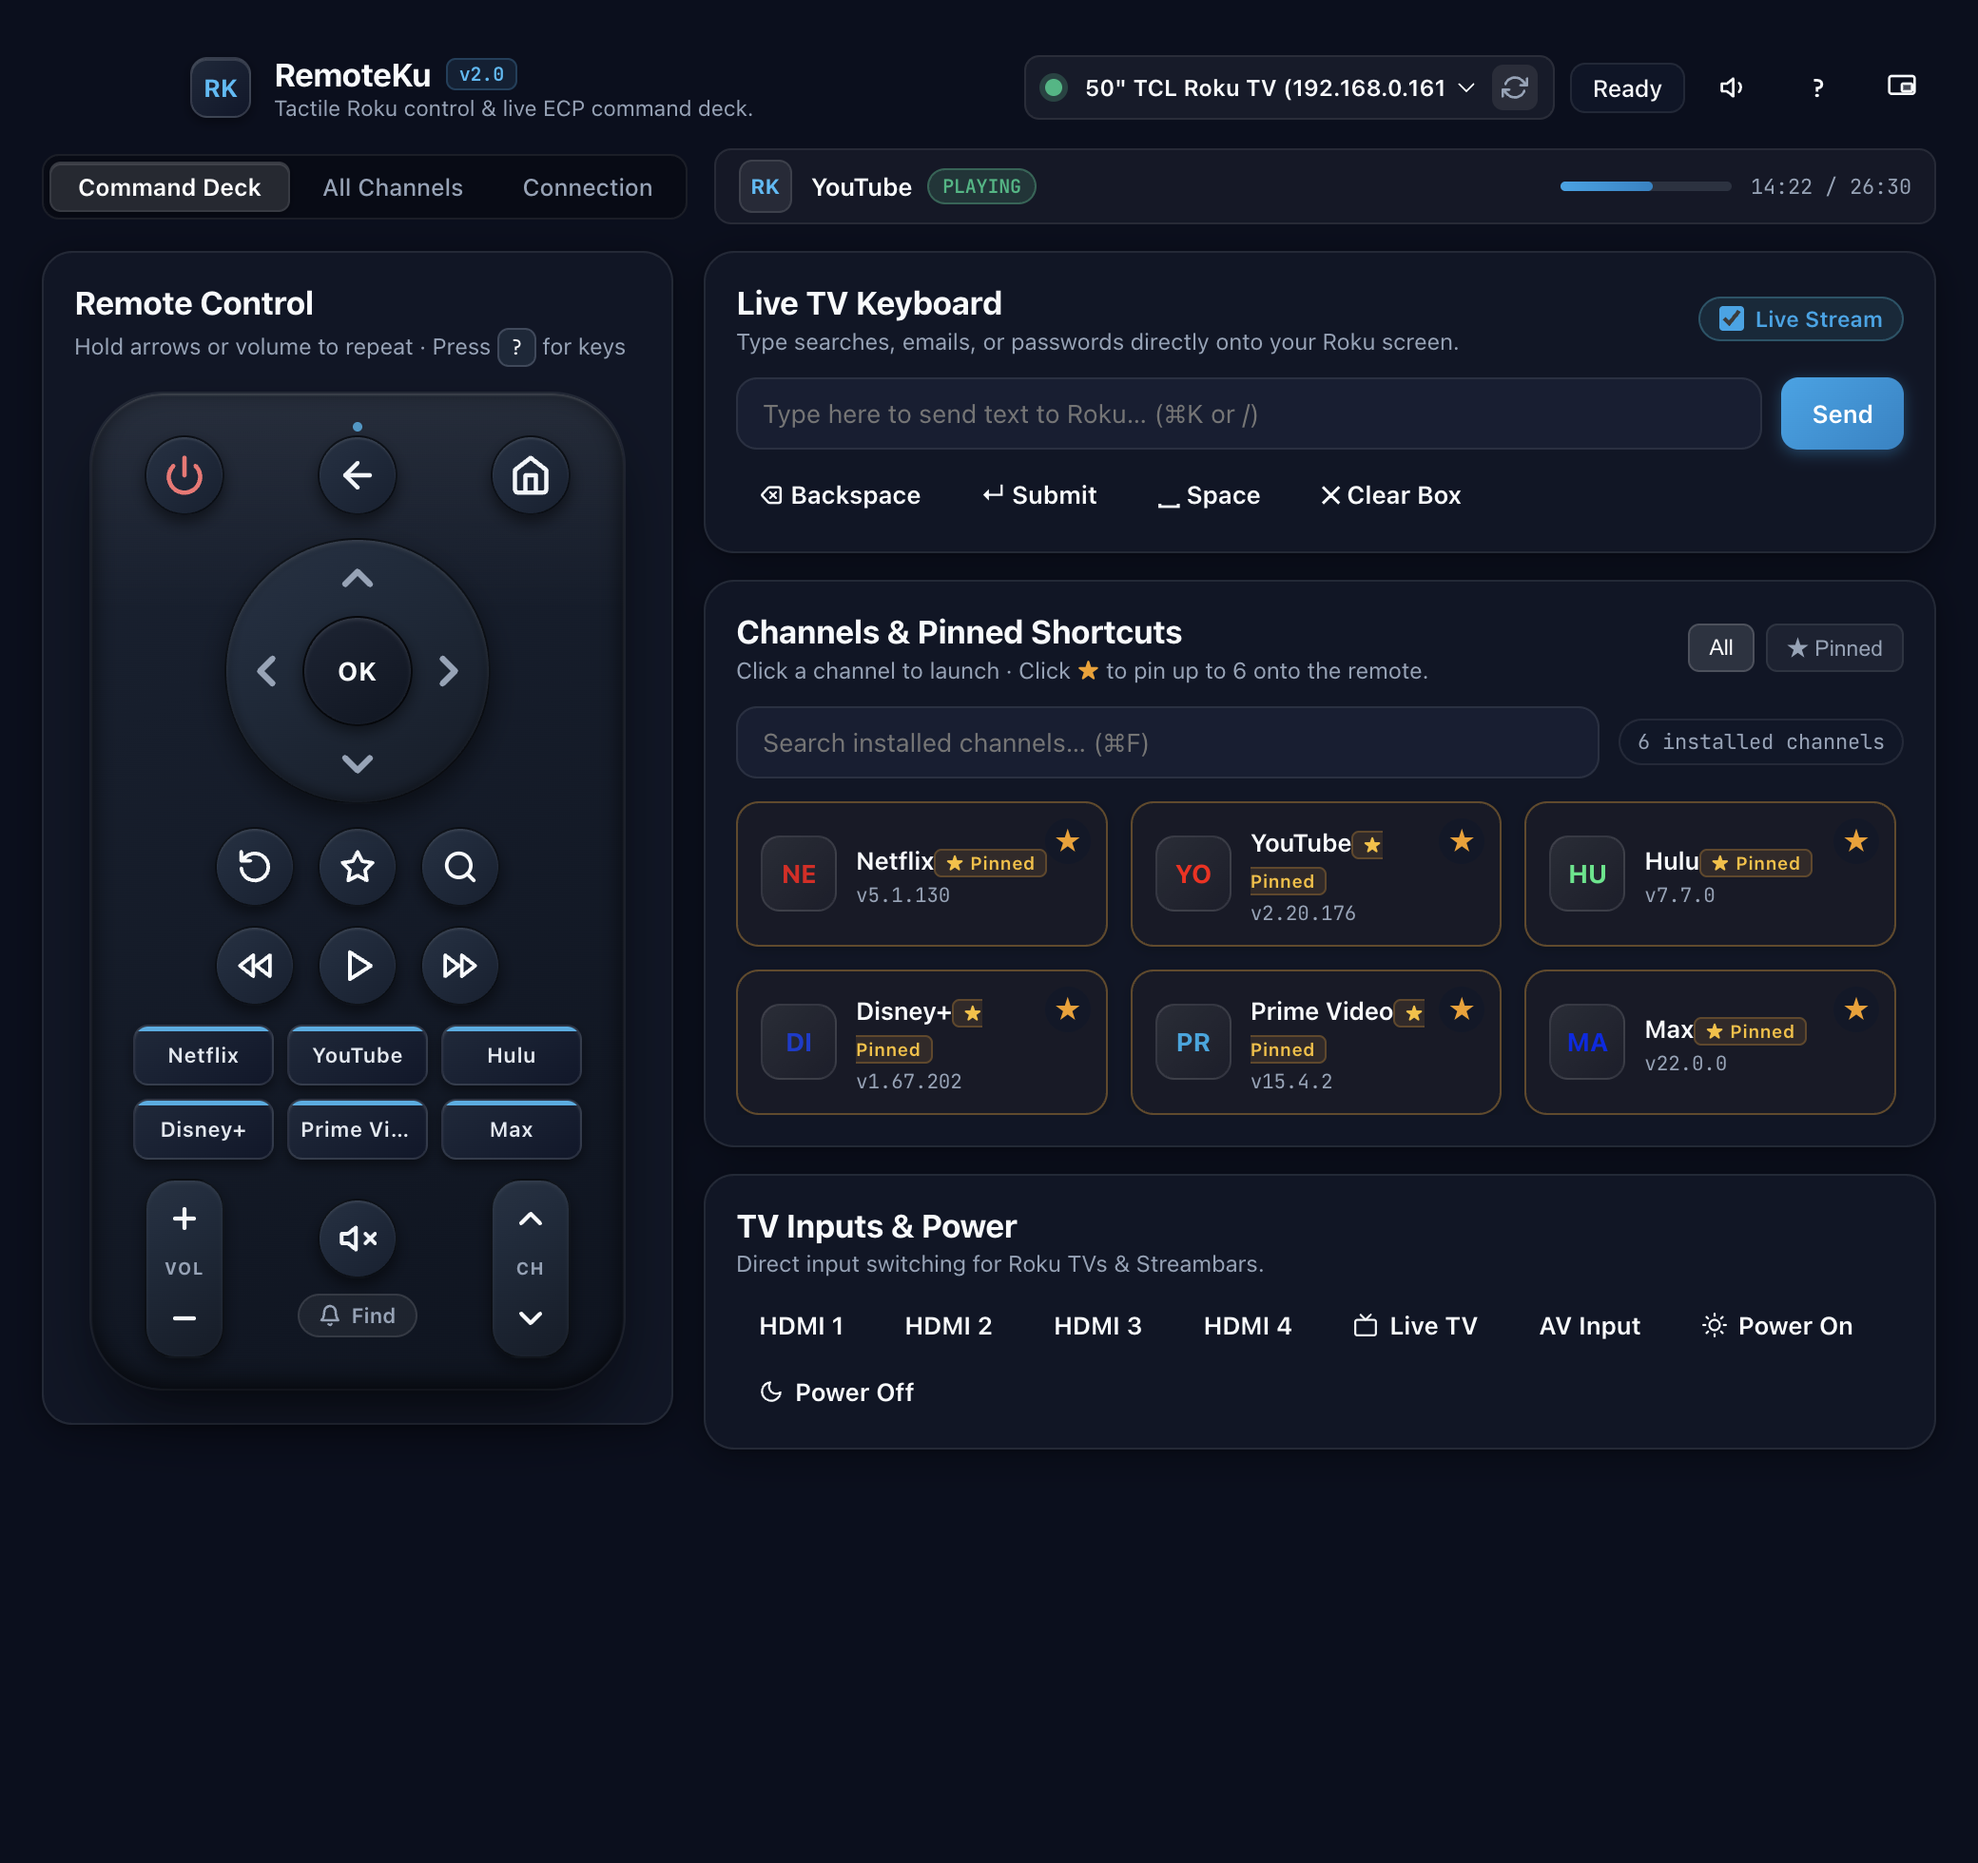
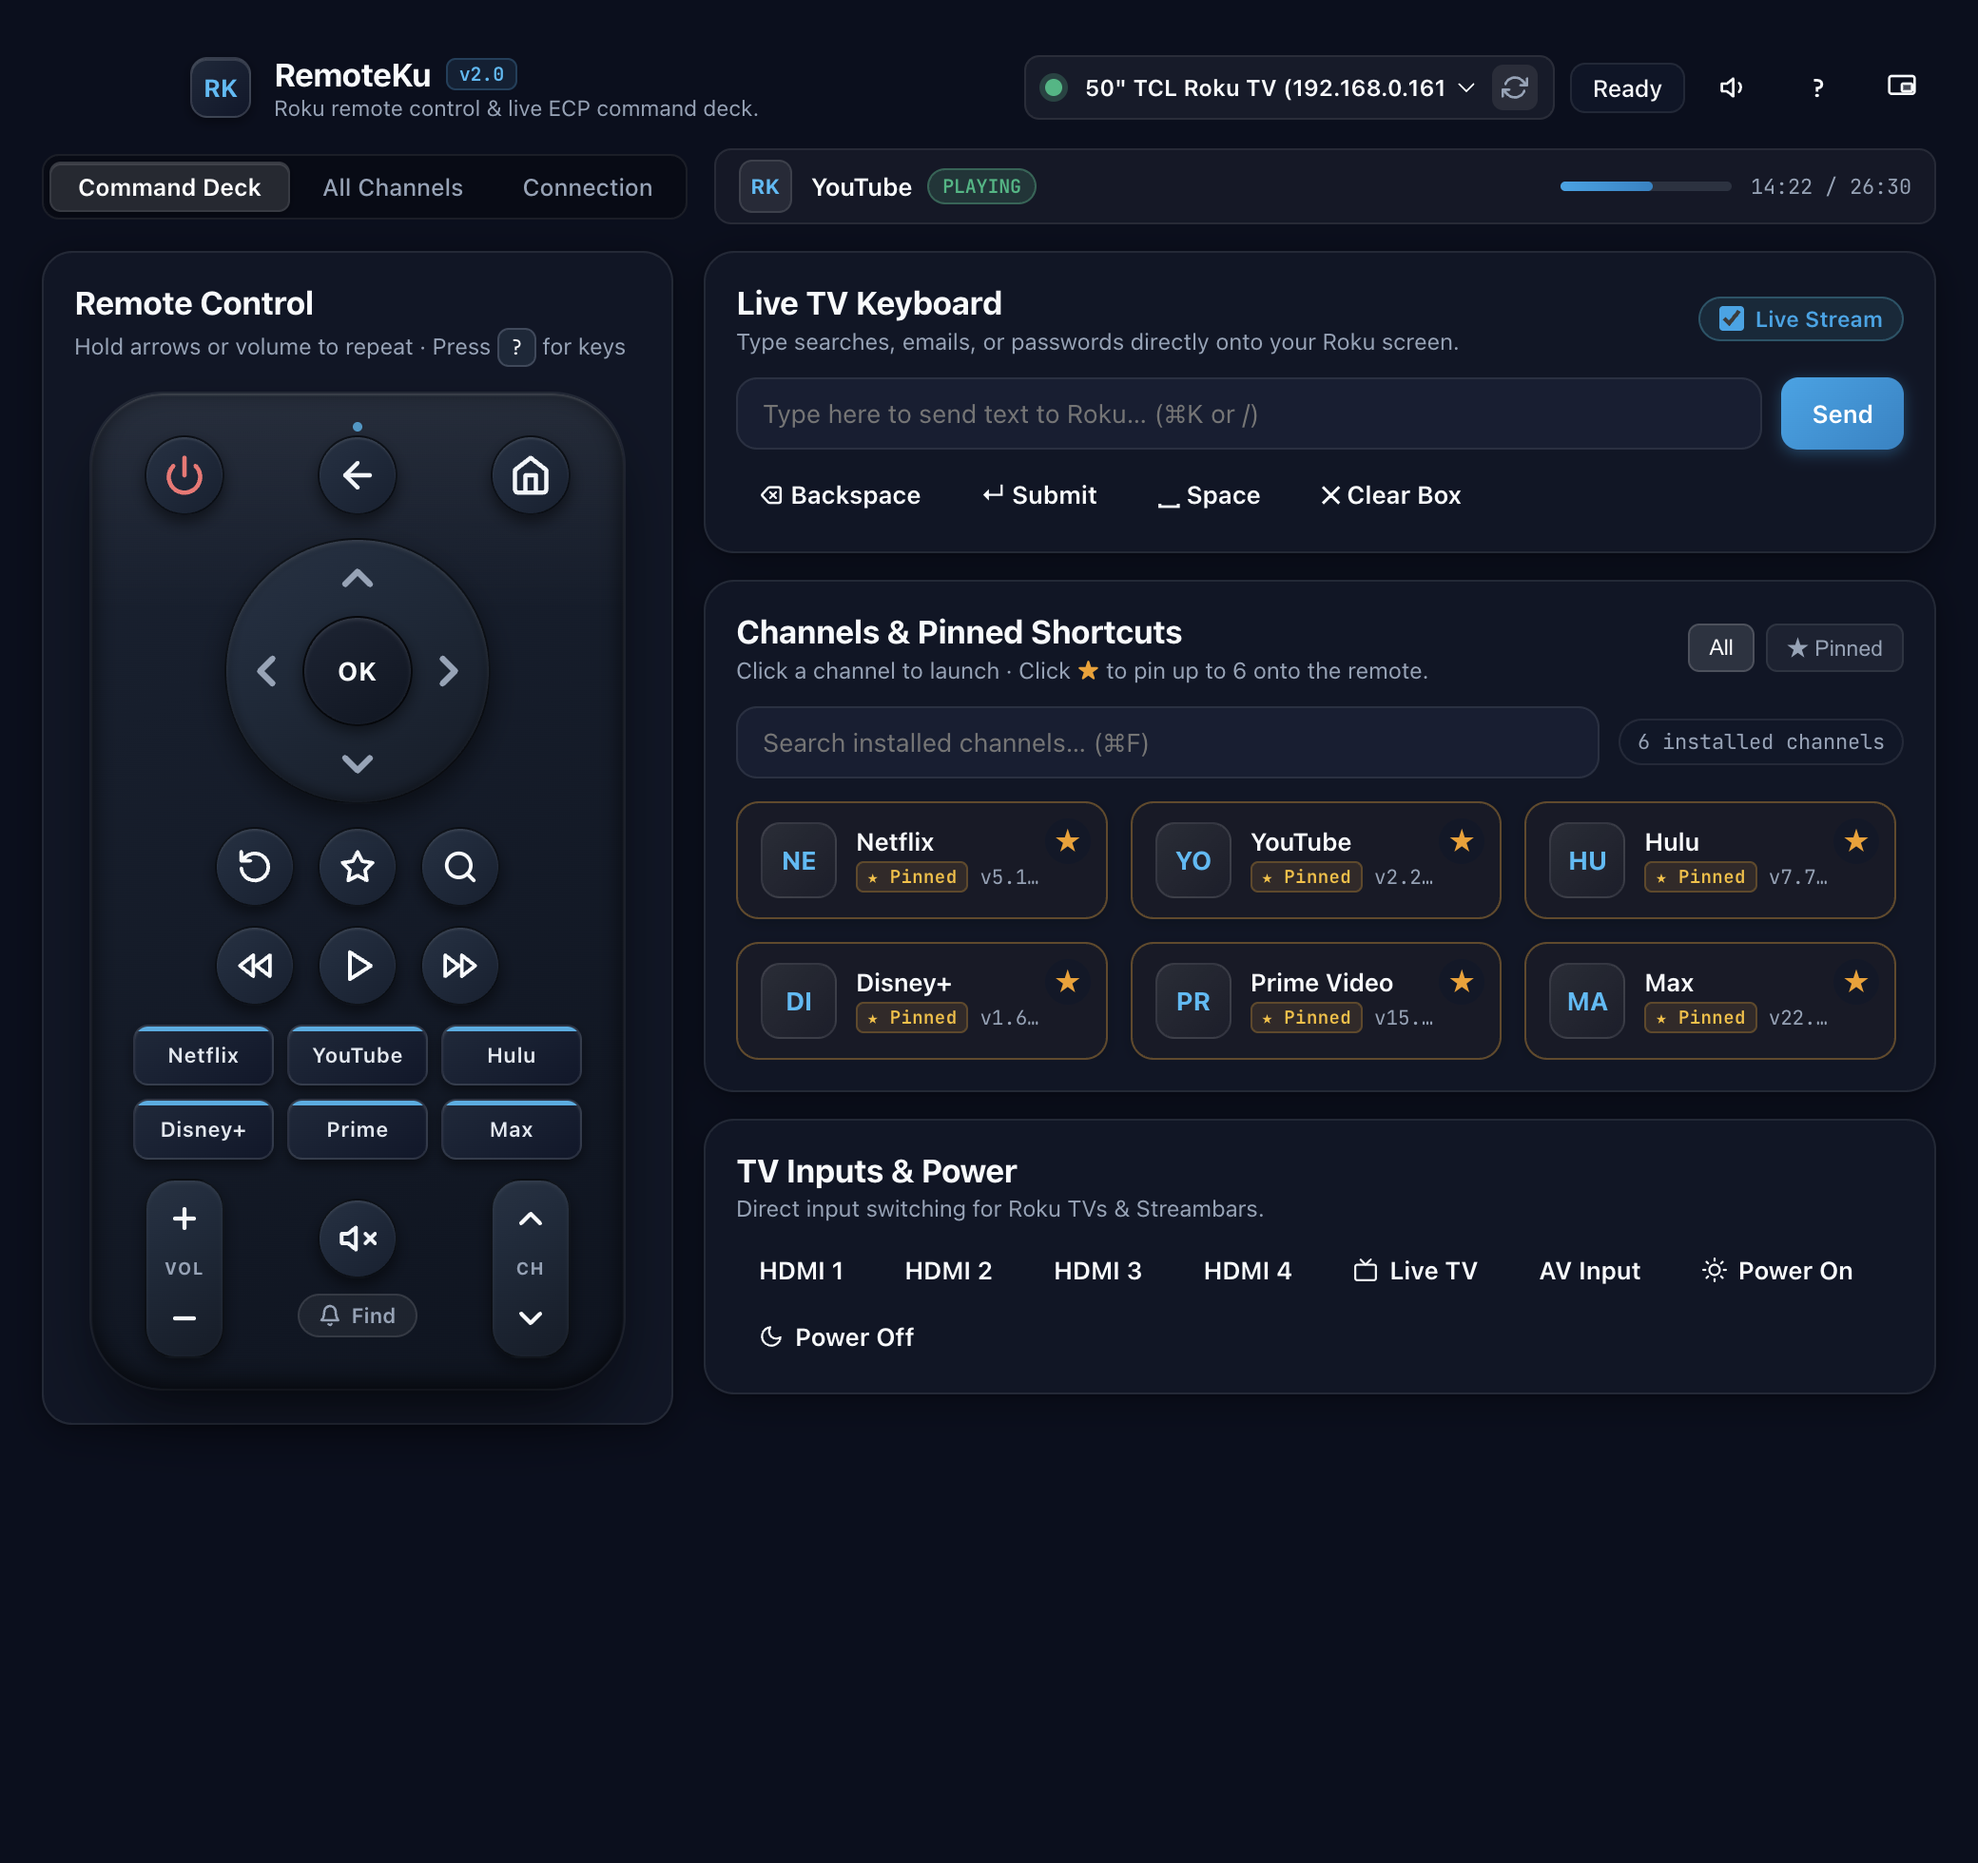
docs(screenshots): update screenshots with clean channel card metadata and Prime preset label

diff --git a/index.html b/index.html
@@ -20,7 +20,7 @@
             <h1>RemoteKu</h1>
             <span class="version-badge">v2.0</span>
           </div>
-          <p class="subtitle">Tactile Roku control &amp; live ECP command deck.</p>
+          <p class="subtitle">Roku remote control &amp; live ECP command deck.</p>
         </div>
       </div>
 
